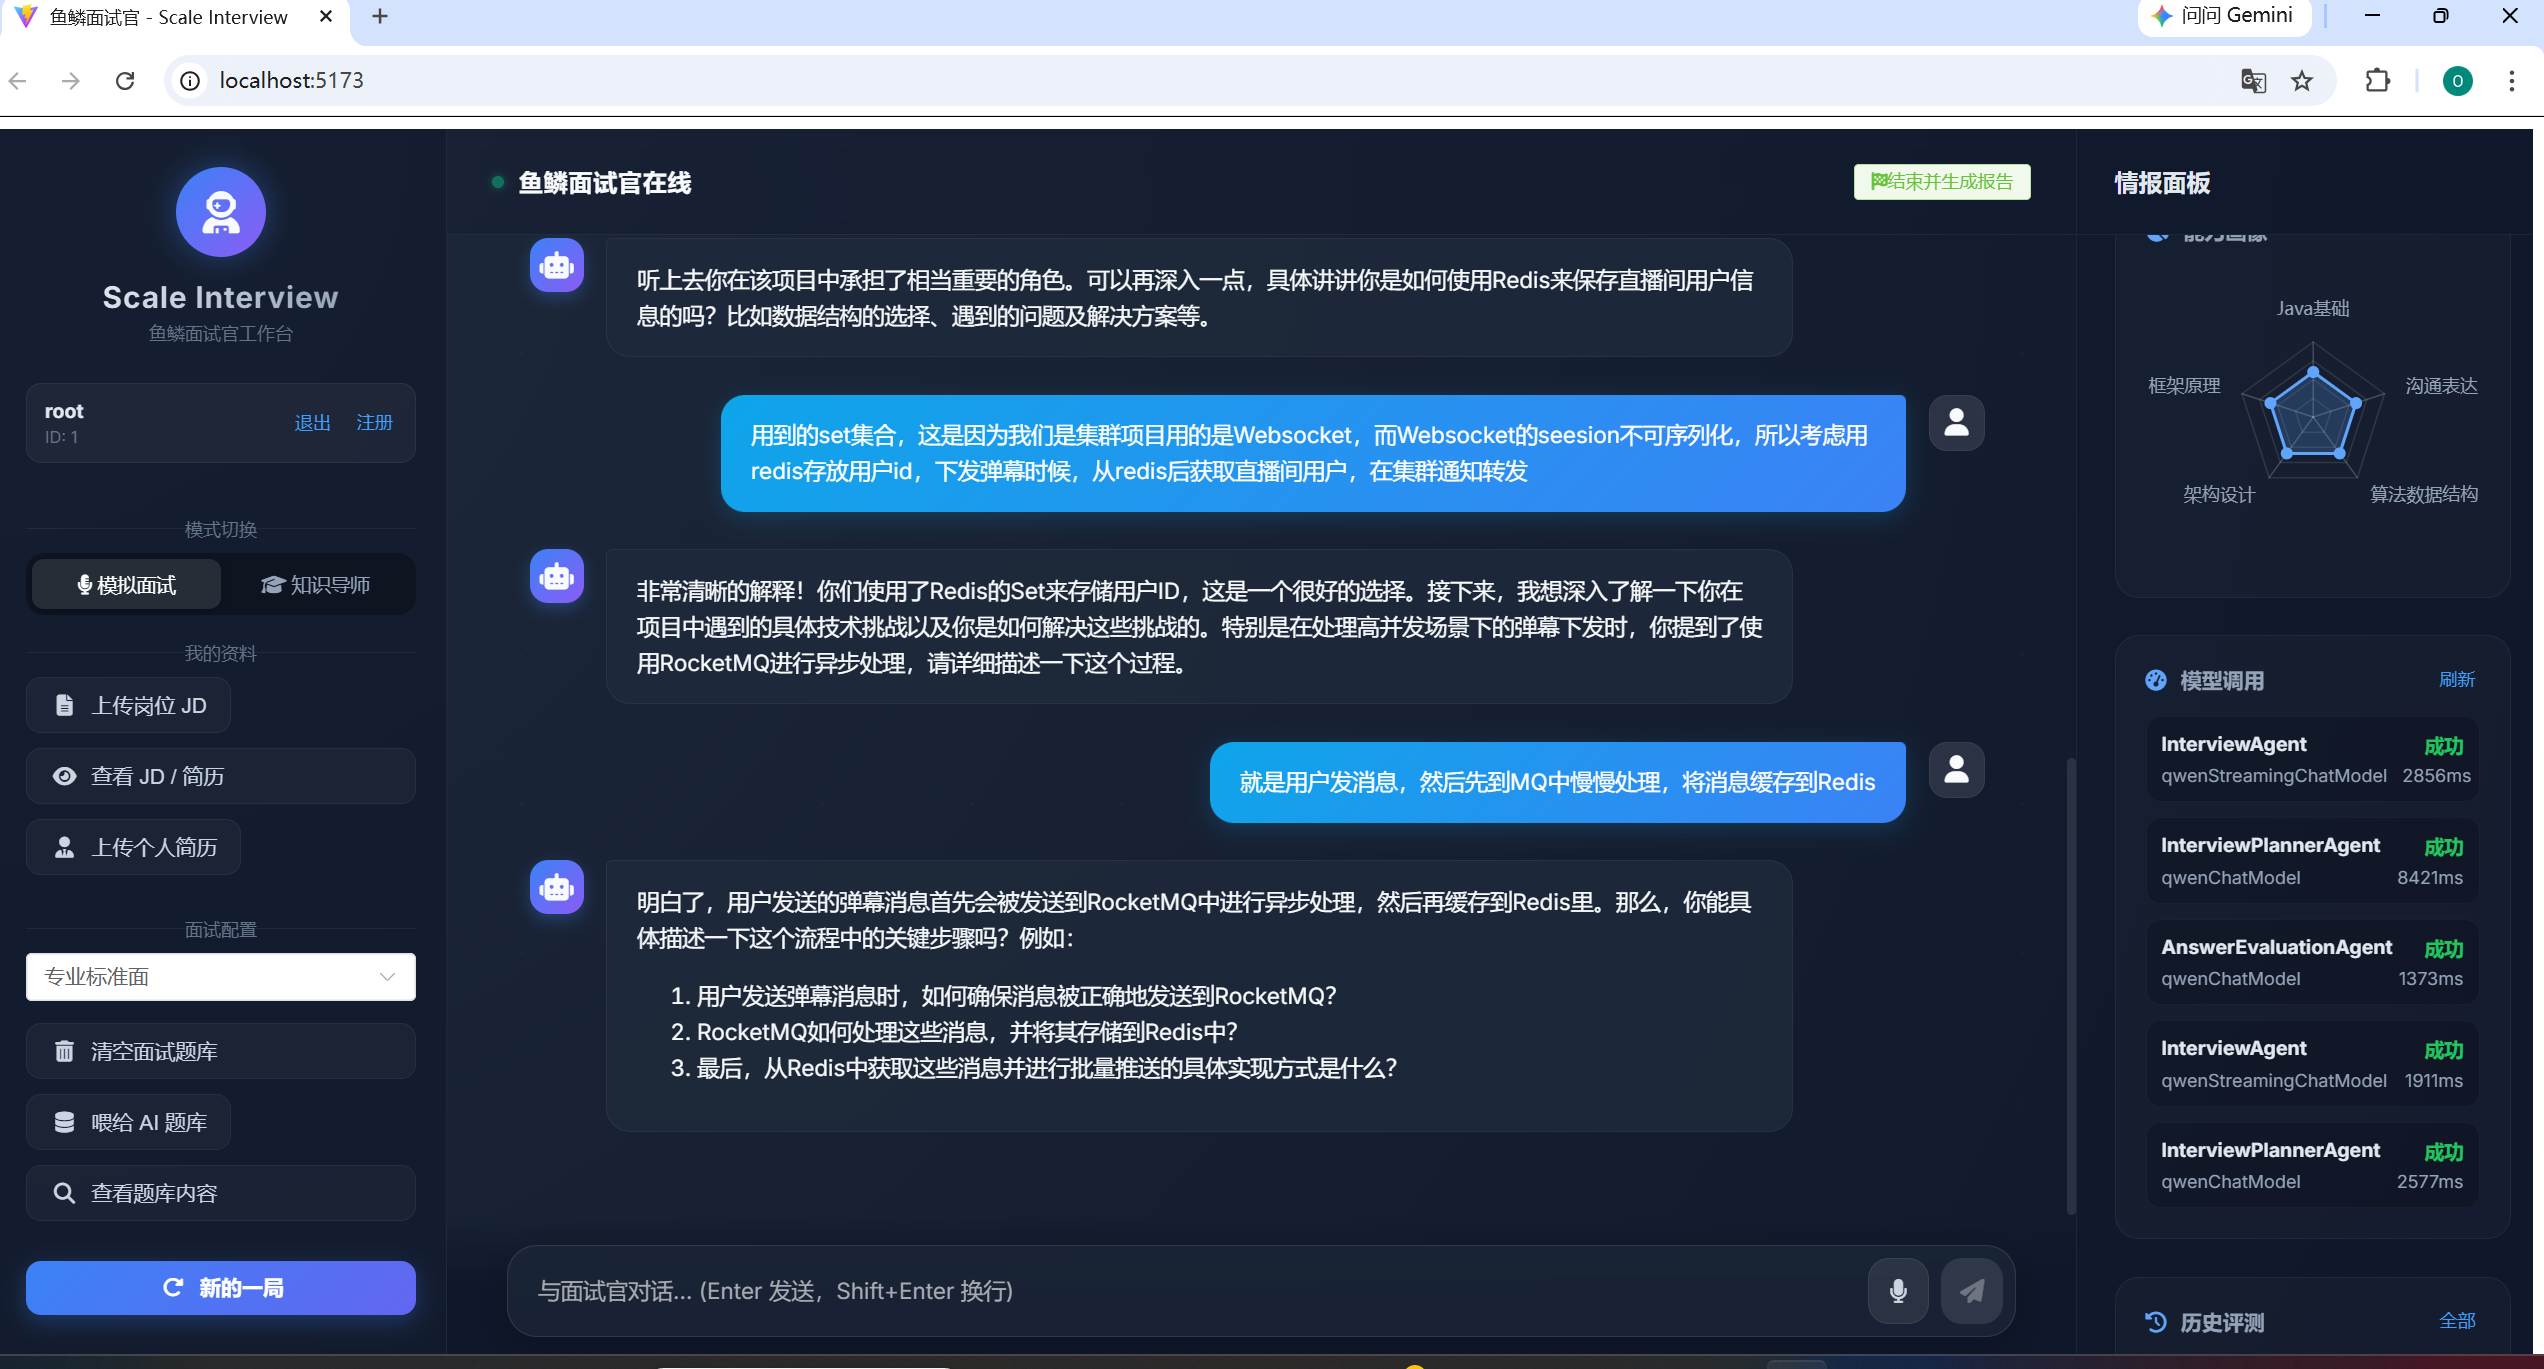
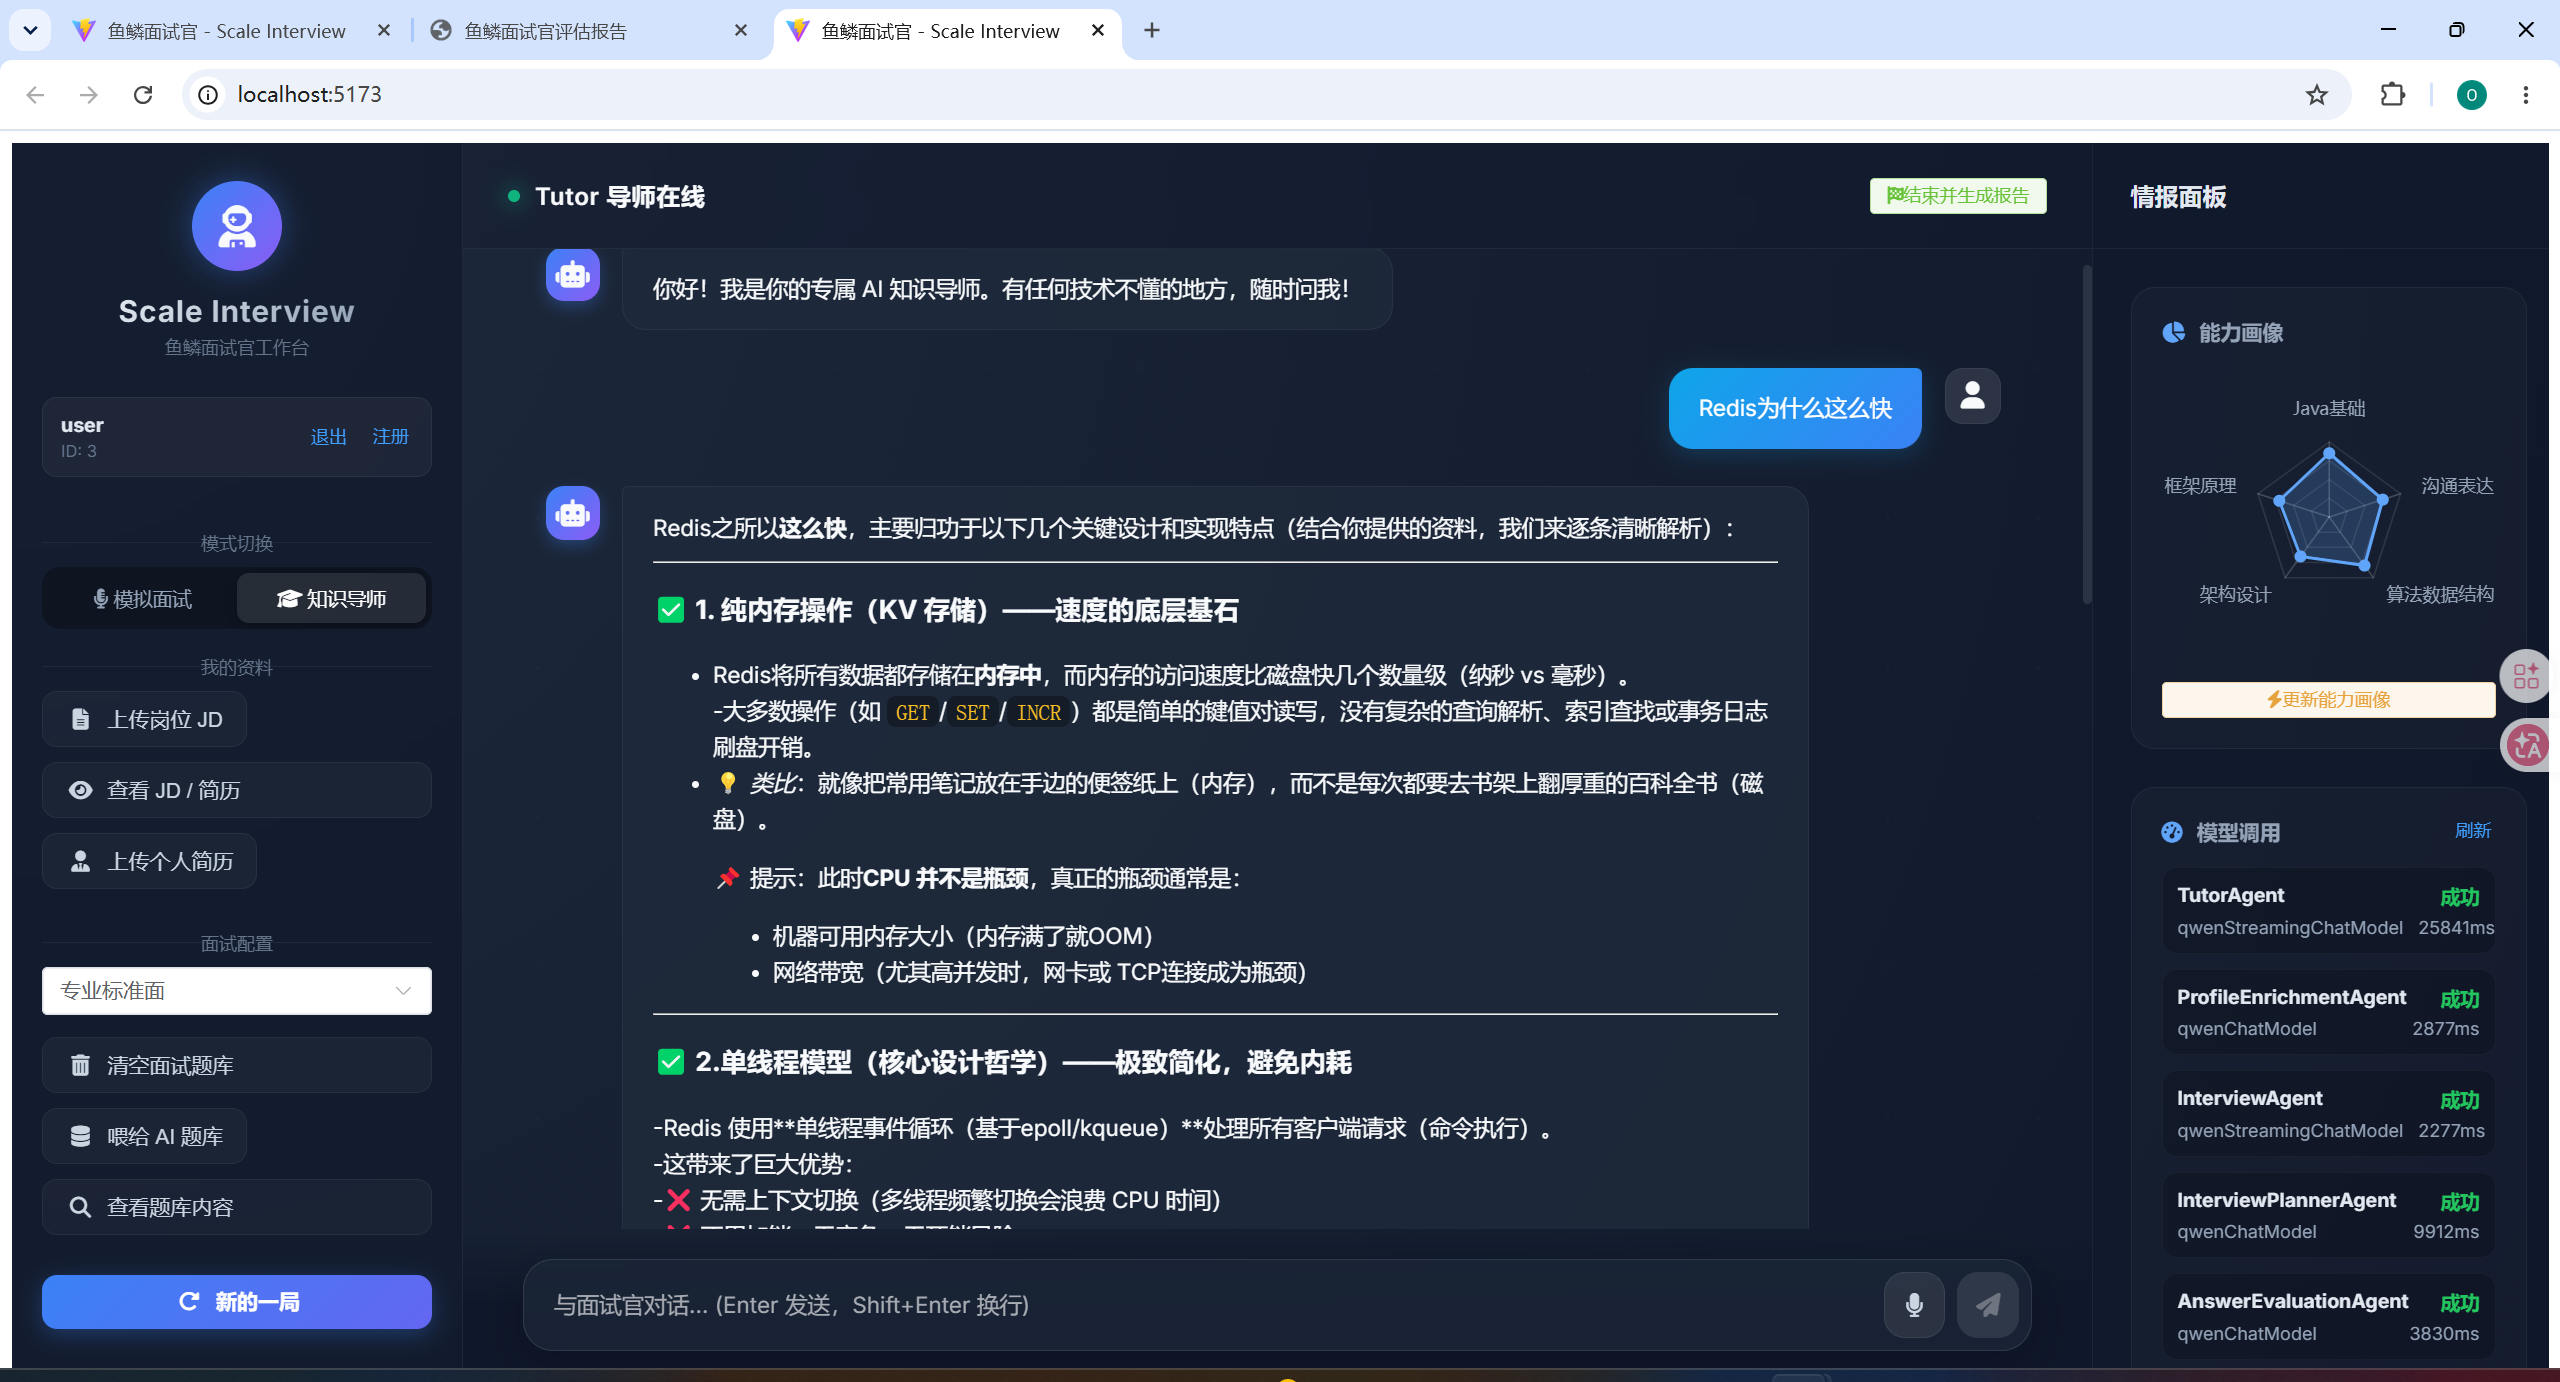
readme.md

diff --git a/README.md b/README.md
@@ -1,7 +1,7 @@
 # Scale Interview
 
 > 面向技术面试场景的多 Agent Workflow 系统  
-> Resume / JD 驱动的模拟面试、Tutor 辅导、RAG 检索、逐轮评估与结构化报告
+> 基于简历与 JD 的模拟面试、Tutor 辅导、RAG 检索、逐轮评估与结构化报告
 
 ![Java](https://img.shields.io/badge/Java-17-orange)
 ![Spring Boot](https://img.shields.io/badge/Spring%20Boot-3.2.6-6DB33F)
@@ -15,7 +15,7 @@
 
 ## 项目简介
 
-Scale Interview 是一个面向求职面试场景的 AI 应用工程项目。它不是简单的聊天机器人，而是围绕“模拟技术面试”这个垂直场景，将状态机、Planner 决策、RAG 检索、逐轮评估、最终报告、可观测与兜底串成了一条完整的 Agent Workflow。
+Scale Interview 是一个面向求职面试场景的 AI 应用工程项目。它不是简单的聊天机器人，而是围绕“模拟技术面试”这个垂直场景，把状态机、Planner 决策、RAG 检索、逐轮评估、最终报告、可观测和兜底串成了一条完整的 Agent Workflow。
 
 更准确的定位是：
 
@@ -26,15 +26,31 @@ Scale Interview 是一个面向求职面试场景的 AI 应用工程项目。它
 ## 项目截图
 
 ### 登录页
-![登录页](assets/screenshot-01.png)
+![登录页](assets/screenshot-06.png)
 
 ### 面试工作台
-![面试工作台](assets/screenshot-02.png)
+![面试工作台](assets/screenshot-03.png)
 
 ### 题库内容预览
-![题库内容预览](assets/screenshot-03.png)
+![题库内容预览](assets/screenshot-07.png)
 
 ---
+
+### JD/简历内容预览
+
+![面试工作台](assets/screenshot-02.png)
+
+### 生成面试评估报告
+
+![生成面试评估报告](assets/screenshot-07.png)
+
+### 面试评估报告pdf
+
+![面试评估报告pdf](assets/screenshot-05.png)
+
+### 辅导工作台
+
+![辅导工作台](assets/screenshot-01.png)
 
 ## 核心亮点
 
@@ -52,9 +68,9 @@ Scale Interview 是一个面向求职面试场景的 AI 应用工程项目。它
 
 - Planner 决策层输出 `ActionPlan`
 - Interview 执行层按指令提问
-- 服务端对 Planner 输出做合法性校验、一次轻量重试与 fallback
+- 服务端对 Planner 输出做对象级 structured output 校验、轻量重试和 fallback
 
-这样做的目的是提升：
+这样做的目标是提升：
 
 - 对话可控性
 - 流程稳定性
@@ -76,9 +92,9 @@ Scale Interview 是一个面向求职面试场景的 AI 应用工程项目。它
 - Planner 决策结果
 - fallback 规则
 
-进行推进。
+推进面试流程。
 
-### 4. RAG 已做基础工程化
+### 4. RAG 已做基础工程化补强
 
 知识库链路不只是“上传文档 -> 检索”：
 
@@ -165,7 +181,7 @@ Scale Interview 是一个面向求职面试场景的 AI 应用工程项目。它
 Scale-Interview/
 ├─ backend/      # Spring Boot + LangChain4j 后端
 ├─ frontend/     # Vue3 + Vite 前端工作台
-├─ assets/       # GitHub README 展示截图
+├─ assets/       # README 展示截图
 ├─ .gitignore
 └─ README.md
 ```
@@ -178,7 +194,7 @@ Scale-Interview/
 
 1. 前端发起 `/api/interview/chat`
 2. 后端读取 `InterviewSessionState`
-3. `InterviewPlannerAgent` 生成下一步决策
+3. `InterviewPlannerAgent` 决策下一步
 4. 需要时调用 `KnowledgeBaseTools`
 5. `InterviewAgent` 流式生成面试官回复
 6. `AnswerEvaluationAgent` 异步进行逐轮评估
@@ -229,6 +245,13 @@ npm install
 npm run dev
 ```
 
+### 默认登录
+
+```text
+username: root
+password: 1234
+```
+
 ---
 
 ## 构建与测试
@@ -271,5 +294,31 @@ npm run build
 - 用户隔离
 - 规则兜底
 
+### 未主打
 
+- 完整 MCP 平台
+- A2A 协议
+- 企业级模型网关
+- 高级检索算法平台
+- 重型多模型编排框架
 
+所以它更适合展示：
+
+- Agent Workflow 工程化
+- AI 应用后端落地
+- RAG / 记忆 / 可观测性基础实践
+
+---
+
+## 面试时推荐怎么讲
+
+推荐说法：
+
+> 我做的是一个面向技术面试场景的多 Agent Workflow 系统。系统通过状态机管理面试阶段，通过 Planner 决策下一步问题，通过 Tool 调用接入知识库，通过逐轮评估沉淀过程数据，最终生成结构化报告，并且补齐了用户隔离、RAG 调试、摘要记忆、模型指标和兜底逻辑。
+
+不建议夸大的说法：
+
+- 完整 MCP 平台
+- 完整 A2A 协议实践
+- 企业级模型网关
+- 高级检索算法平台
